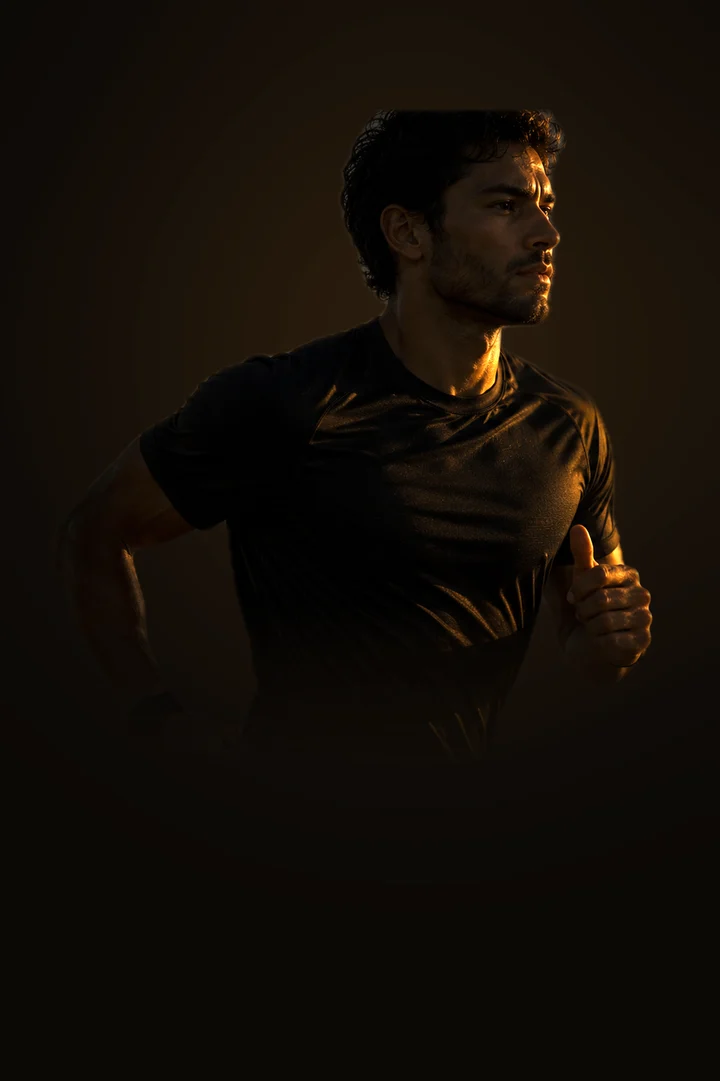
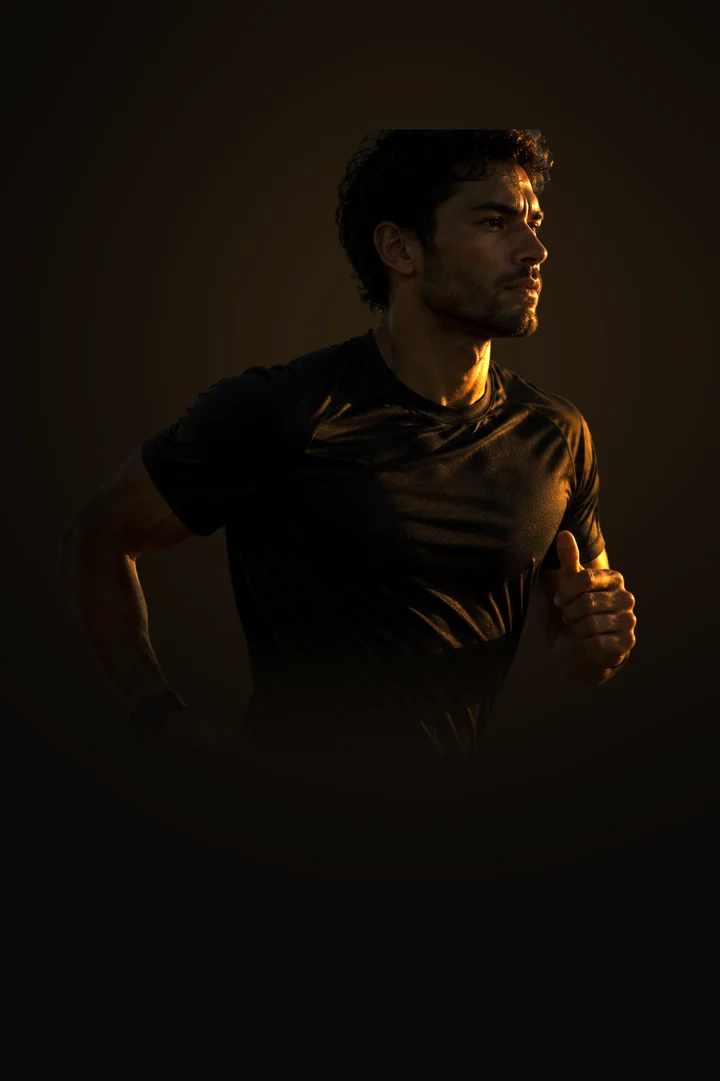
Accountability: new runner image; faces always clear of label and text, whole scene shown with feathered edges

diff --git a/index.html b/index.html
@@ -82,8 +82,8 @@
 <link rel="preconnect" href="https://fonts.googleapis.com" />
 <link rel="preconnect" href="https://fonts.gstatic.com" crossorigin />
 <link href="https://fonts.googleapis.com/css2?family=JetBrains+Mono:wght@400;500;700&display=swap" rel="stylesheet" />
-<link rel="stylesheet" href="css/tokens.css?v=20261109c" />
-<link rel="stylesheet" href="css/styles.css?v=20261109c" />
+<link rel="stylesheet" href="css/tokens.css?v=20261109e" />
+<link rel="stylesheet" href="css/styles.css?v=20261109e" />
 <script defer src="https://cdn.vercel-insights.com/v1/script.js"></script>
 </head>
 <body>
@@ -407,7 +407,7 @@
            tiles, no screenshots. Energy / Discipline / Growth / Focus. -->
       <div class="bento">
         <article class="tile tile--partner nb-card nb-photo" data-tone="energy" data-reveal>
-          <picture class="tile-photo" aria-hidden="true"><source media="(max-width: 760px)" srcset="assets/img/runner-720.webp" /><img src="assets/img/runner-1200.webp" alt="" width="920" height="1382" loading="lazy" decoding="async" /></picture>
+          <picture class="tile-photo" aria-hidden="true"><source media="(max-width: 760px)" srcset="assets/img/runner-720.webp" /><img src="assets/img/runner-1200.webp" alt="" width="1000" height="1502" loading="lazy" decoding="async" /></picture>
           <p class="tile-label t-mono-caption"><svg class="ic" aria-hidden="true"><use href="#i-user-plus"/></svg>Accountability partner</p>
           <div class="tile-foot">
             <h3 class="t-sh2">Your own<br /> accountability partner.</h3>
@@ -570,6 +570,6 @@
     </div>
   </footer>
 
-  <script src="js/app.js?v=20261109c"></script>
+  <script src="js/app.js?v=20261109e"></script>
 </body>
 </html>

diff --git a/css/styles.css b/css/styles.css
@@ -997,3 +997,16 @@ footer { border-top: 0 !important; padding-top: 24px !important; }
   .rec-panel--others .rec-photo img { transform: none !important; object-position: 62% 20%; }
   .rec-photo { width: 100%; height: 78%; }
 }
+/* Faces never under the label or text: the photo starts below the label, shows
+   the whole scene at a smaller size, and fades into the card on every side. */
+.tile.nb-photo .tile-photo { margin-top: 52px; height: clamp(300px, 40vh, 350px);
+  -webkit-mask-image: radial-gradient(75% 70% at 50% 42%, #000 55%, transparent 100%); mask-image: radial-gradient(75% 70% at 50% 42%, #000 55%, transparent 100%); }
+.tile.nb-photo .tile-photo img { object-fit: contain; object-position: center top !important; }
+.tile.nb-photo .tile-photo::after { display: none; }
+.tile.nb-photo .tile-foot { margin-top: 0; padding-top: 8px; }
+.tile.nb-photo .tile-photo { width: auto; aspect-ratio: 2 / 3; margin-inline: auto; align-self: center;
+  -webkit-mask-image: linear-gradient(90deg, transparent 0%, #000 20%, #000 80%, transparent 100%), linear-gradient(180deg, transparent 0%, #000 14%, #000 74%, transparent 100%);
+  -webkit-mask-composite: source-in;
+  mask-image: linear-gradient(90deg, transparent 0%, #000 20%, #000 80%, transparent 100%), linear-gradient(180deg, transparent 0%, #000 14%, #000 74%, transparent 100%);
+  mask-composite: intersect; }
+.tile.nb-photo .tile-photo img { object-fit: cover; }
